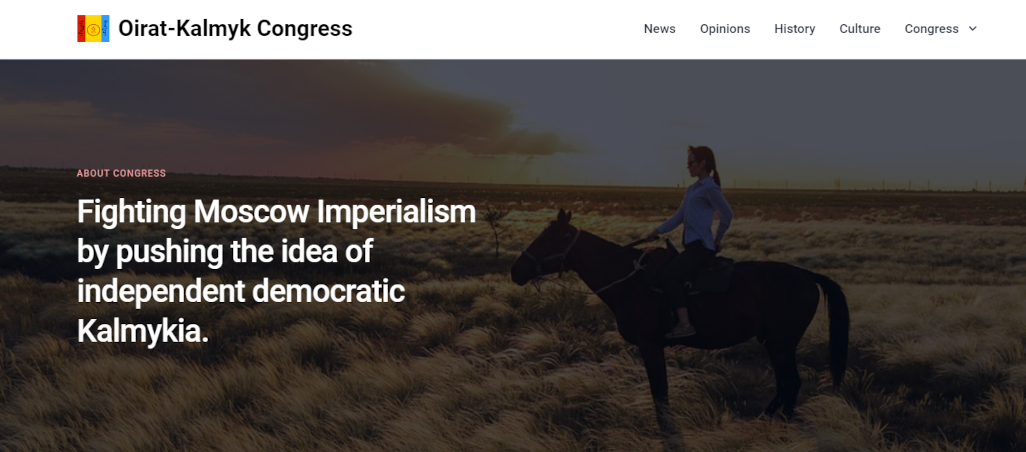
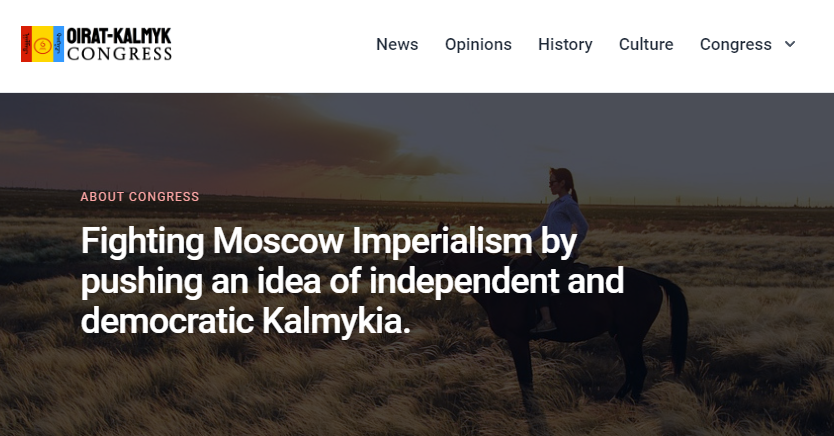
update ogimage

diff --git a/config/site.config.js b/config/site.config.js
@@ -4,7 +4,7 @@ export default {
     "description" : "Political organization of Oirat-Kalmyk people",
     "author" : "Free Kalmykia Foundation, Inc.",
     "keyword" : "oirats, oirads, kalmyks, Kalmykia, captive nations",
-    "ogImage" : "/images/ogimage.png"
+    "ogImage" : "https://oiradcongress.org/images/ogimage.png"
   },
   "baseURL" : "https://oiradcongress.org/",
   "logo" : "/images/oiracongress_logo_1.png",

diff --git a/content/pages/about.md b/content/pages/about.md
@@ -1,8 +1,8 @@
 ---
-title: "About"
-description: "This is a mock description for about page"
+title: "Oirat-Kalmyk Congress: About"
+description: "Oirat-Kalmyk Congress is fighting Moscow Imperialism by pushing an idea of independent and democratic Kalmykia."
 header:
-  heading:  "Fighting Moscow Imperialism by pushing the idea of independent democratic Kalmykia."
+  heading:  "Fighting Moscow Imperialism by pushing an idea of independent and democratic Kalmykia."
   subheader: "About Congress"
   image: "/images/about/about-header.jpg"
 partner_section:
